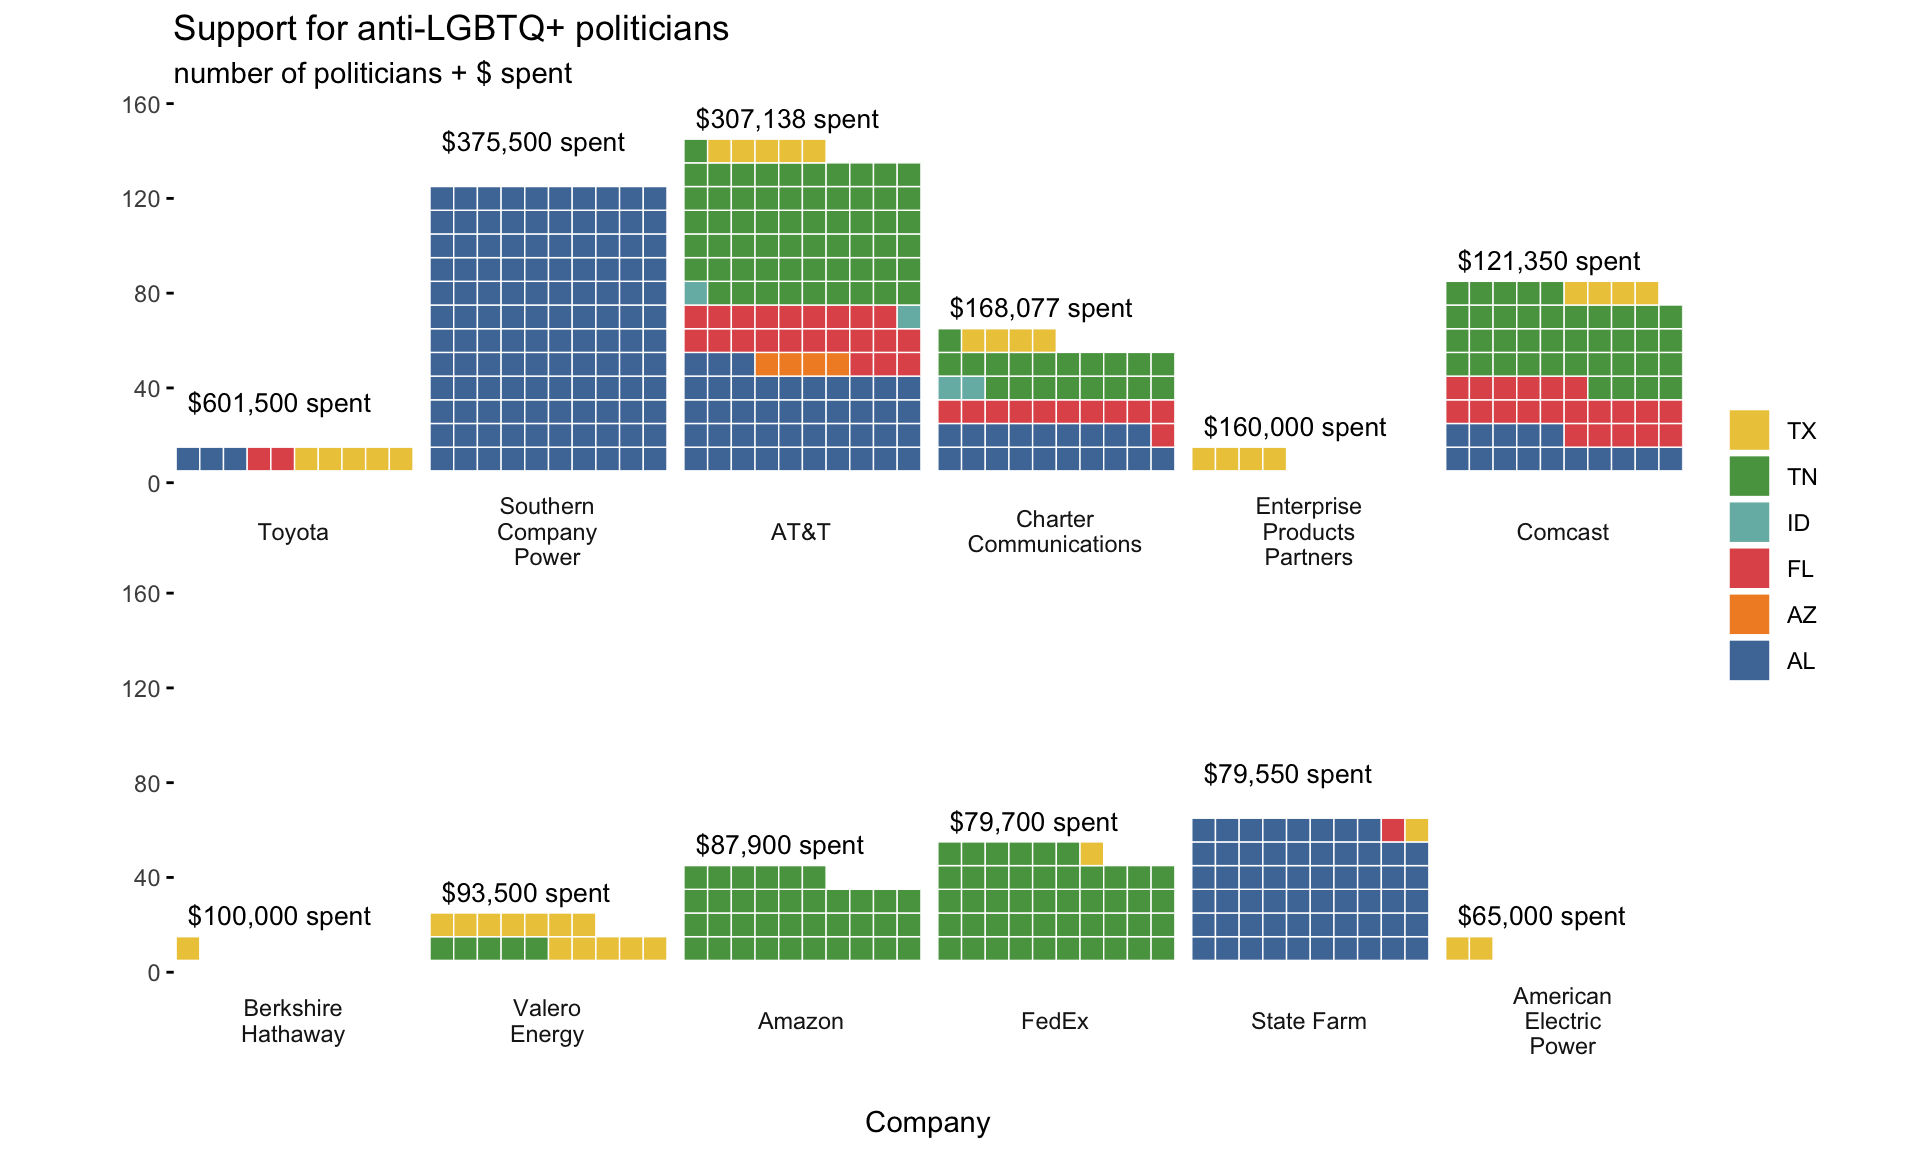
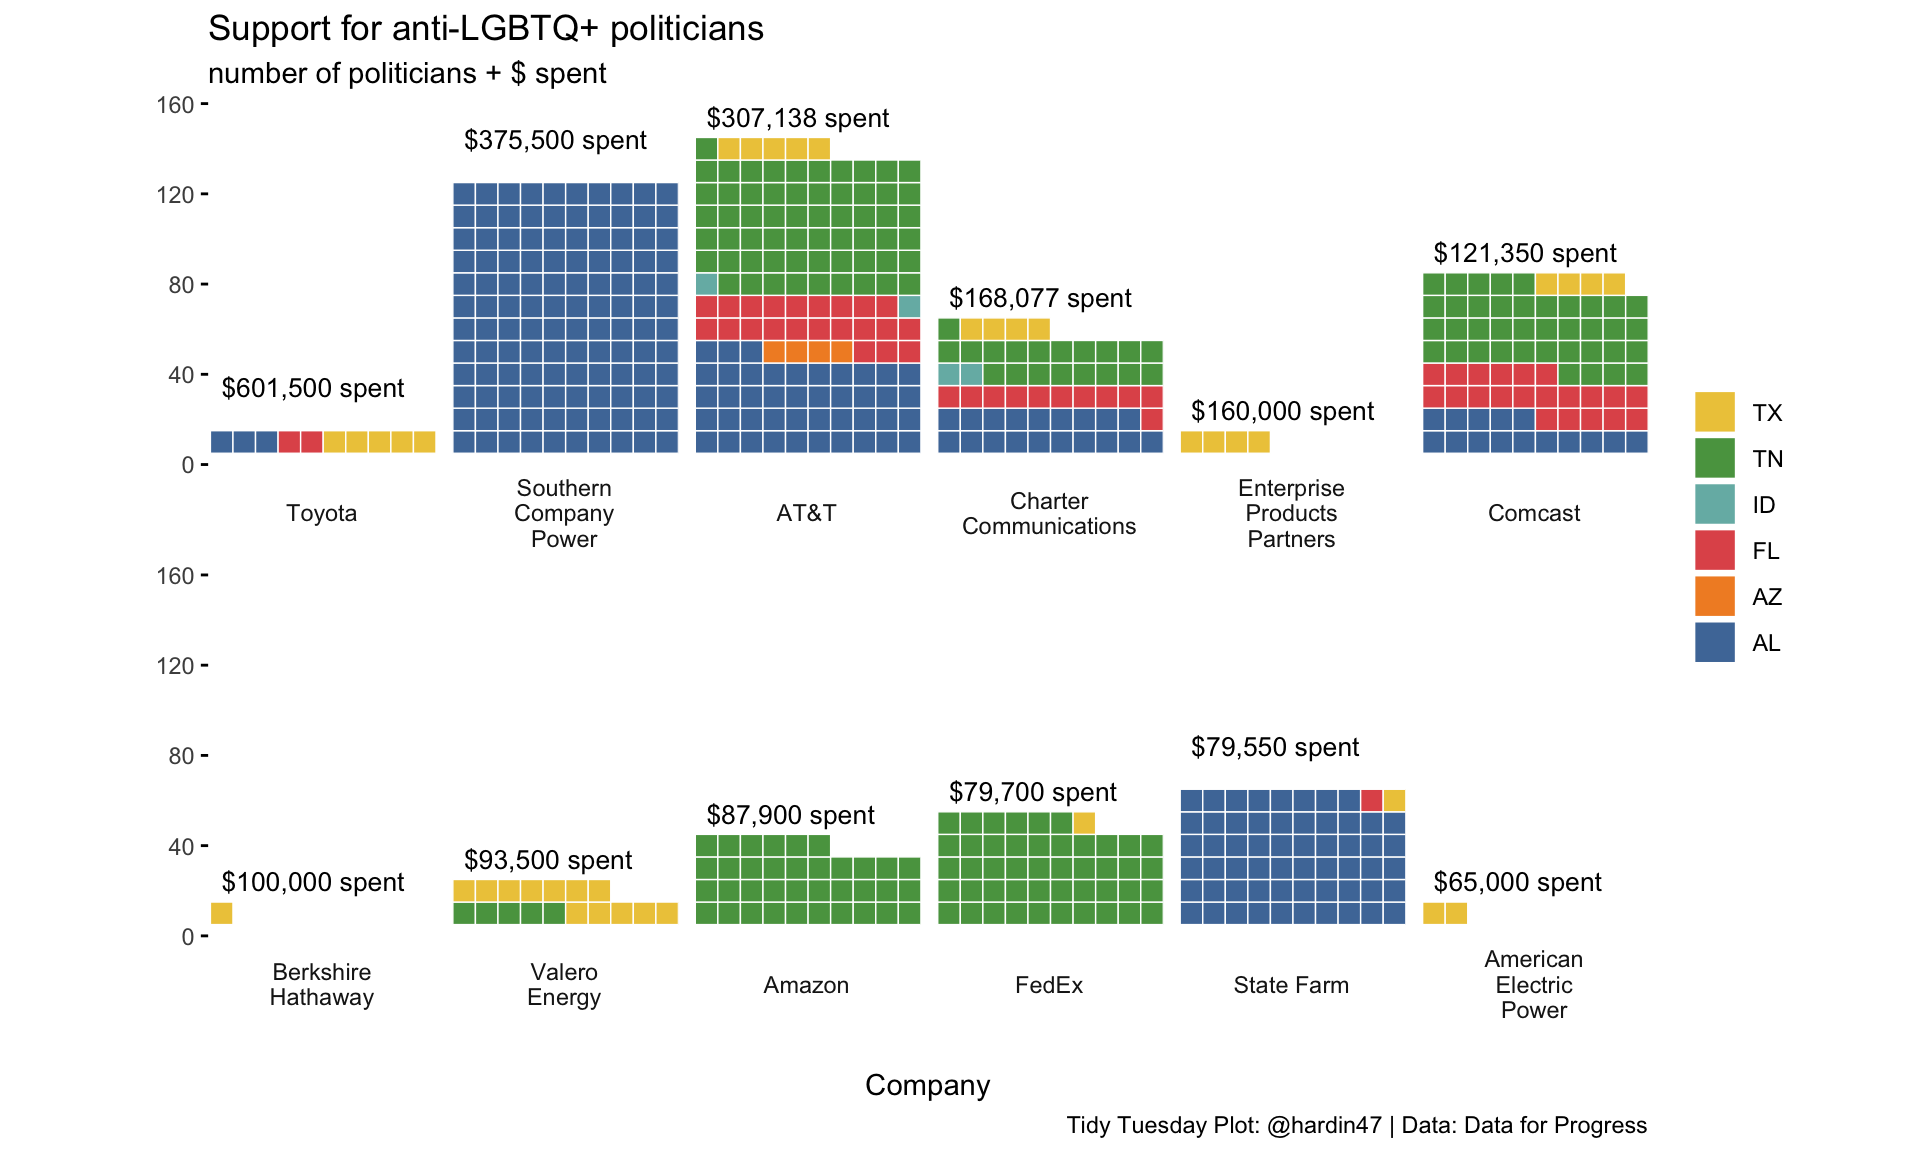
pride data attribution

diff --git a/2022-06-07/pride.html b/2022-06-07/pride.html
@@ -162,8 +162,8 @@
 <span id="cb2-39"><a href="#cb2-39" aria-hidden="true" tabindex="-1"></a>    <span class="at">title =</span> <span class="st">"Support for anti-LGBTQ+ politicians"</span>,</span>
 <span id="cb2-40"><a href="#cb2-40" aria-hidden="true" tabindex="-1"></a>    <span class="at">subtitle =</span> <span class="st">"number of politicians + $ spent"</span>,</span>
 <span id="cb2-41"><a href="#cb2-41" aria-hidden="true" tabindex="-1"></a>    <span class="at">x =</span> <span class="st">"Company"</span>,</span>
-<span id="cb2-42"><a href="#cb2-42" aria-hidden="true" tabindex="-1"></a>    <span class="at">y =</span> <span class="st">""</span></span>
-<span id="cb2-43"><a href="#cb2-43" aria-hidden="true" tabindex="-1"></a>  ) <span class="sc">+</span></span>
+<span id="cb2-42"><a href="#cb2-42" aria-hidden="true" tabindex="-1"></a>    <span class="at">y =</span> <span class="st">""</span>,</span>
+<span id="cb2-43"><a href="#cb2-43" aria-hidden="true" tabindex="-1"></a>    <span class="at">caption =</span> <span class="st">"Tidy Tuesday Plot: @hardin47 | Data: Data for Progress"</span>) <span class="sc">+</span></span>
 <span id="cb2-44"><a href="#cb2-44" aria-hidden="true" tabindex="-1"></a>  <span class="fu">theme_minimal</span>() <span class="sc">+</span></span>
 <span id="cb2-45"><a href="#cb2-45" aria-hidden="true" tabindex="-1"></a>  <span class="fu">theme</span>(<span class="at">panel.grid =</span> <span class="fu">element_blank</span>(), <span class="at">axis.ticks.y =</span> <span class="fu">element_line</span>()) <span class="sc">+</span></span>
 <span id="cb2-46"><a href="#cb2-46" aria-hidden="true" tabindex="-1"></a>  <span class="fu">guides</span>(<span class="at">fill =</span> <span class="fu">guide_legend</span>(<span class="at">reverse =</span> <span class="cn">TRUE</span>))</span></code><button title="Copy to Clipboard" class="code-copy-button"><i class="bi"></i></button></pre></div>
